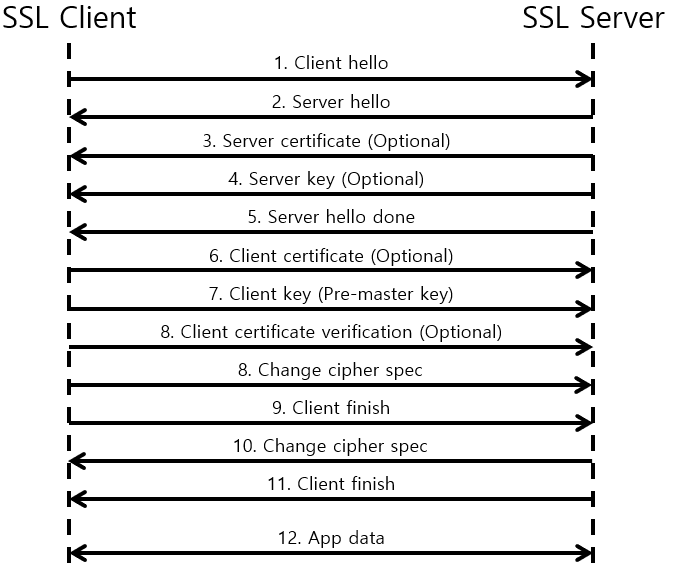
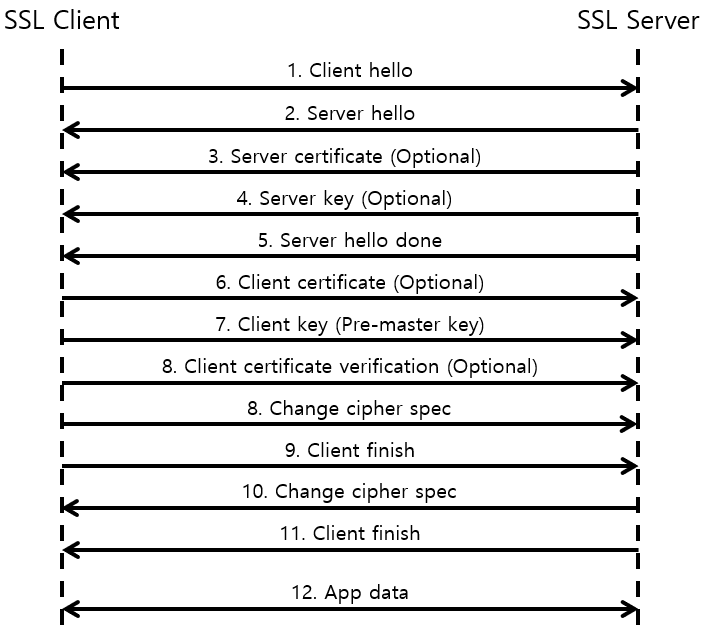
Update ssl

Changed region(s): [[0.0624, 0.0, 0.9985, 0.9808], [0.0, 0.0, 0.2184, 0.0594]]

diff --git a/_docs/theory_analysis/SSL.md b/_docs/theory_analysis/SSL.md
@@ -13,11 +13,11 @@ SSL (Secure Socket Layer)를 분석한다.
 
 #### 1.1. Handshake
 
-![]({{site.baseurl}}/images/theory_analysis/SSL/SSL_Handshake_No_Session_ID.PNG){: width="650px"}
+![]({{site.baseurl}}/images/theory_analysis/SSL/SSL_Handshake_No_Session_ID.PNG){: width="600px"}
 
 #### 1.2. Resumed Session
 
-![]({{site.baseurl}}/images/theory_analysis/SSL/SSL_Handshake_Session_ID.PNG){: width="650px"}
+![]({{site.baseurl}}/images/theory_analysis/SSL/SSL_Handshake_Session_ID.PNG){: width="600px"}
 
 #### 1.3. Certificate, CA (Certificate Authority)
 
